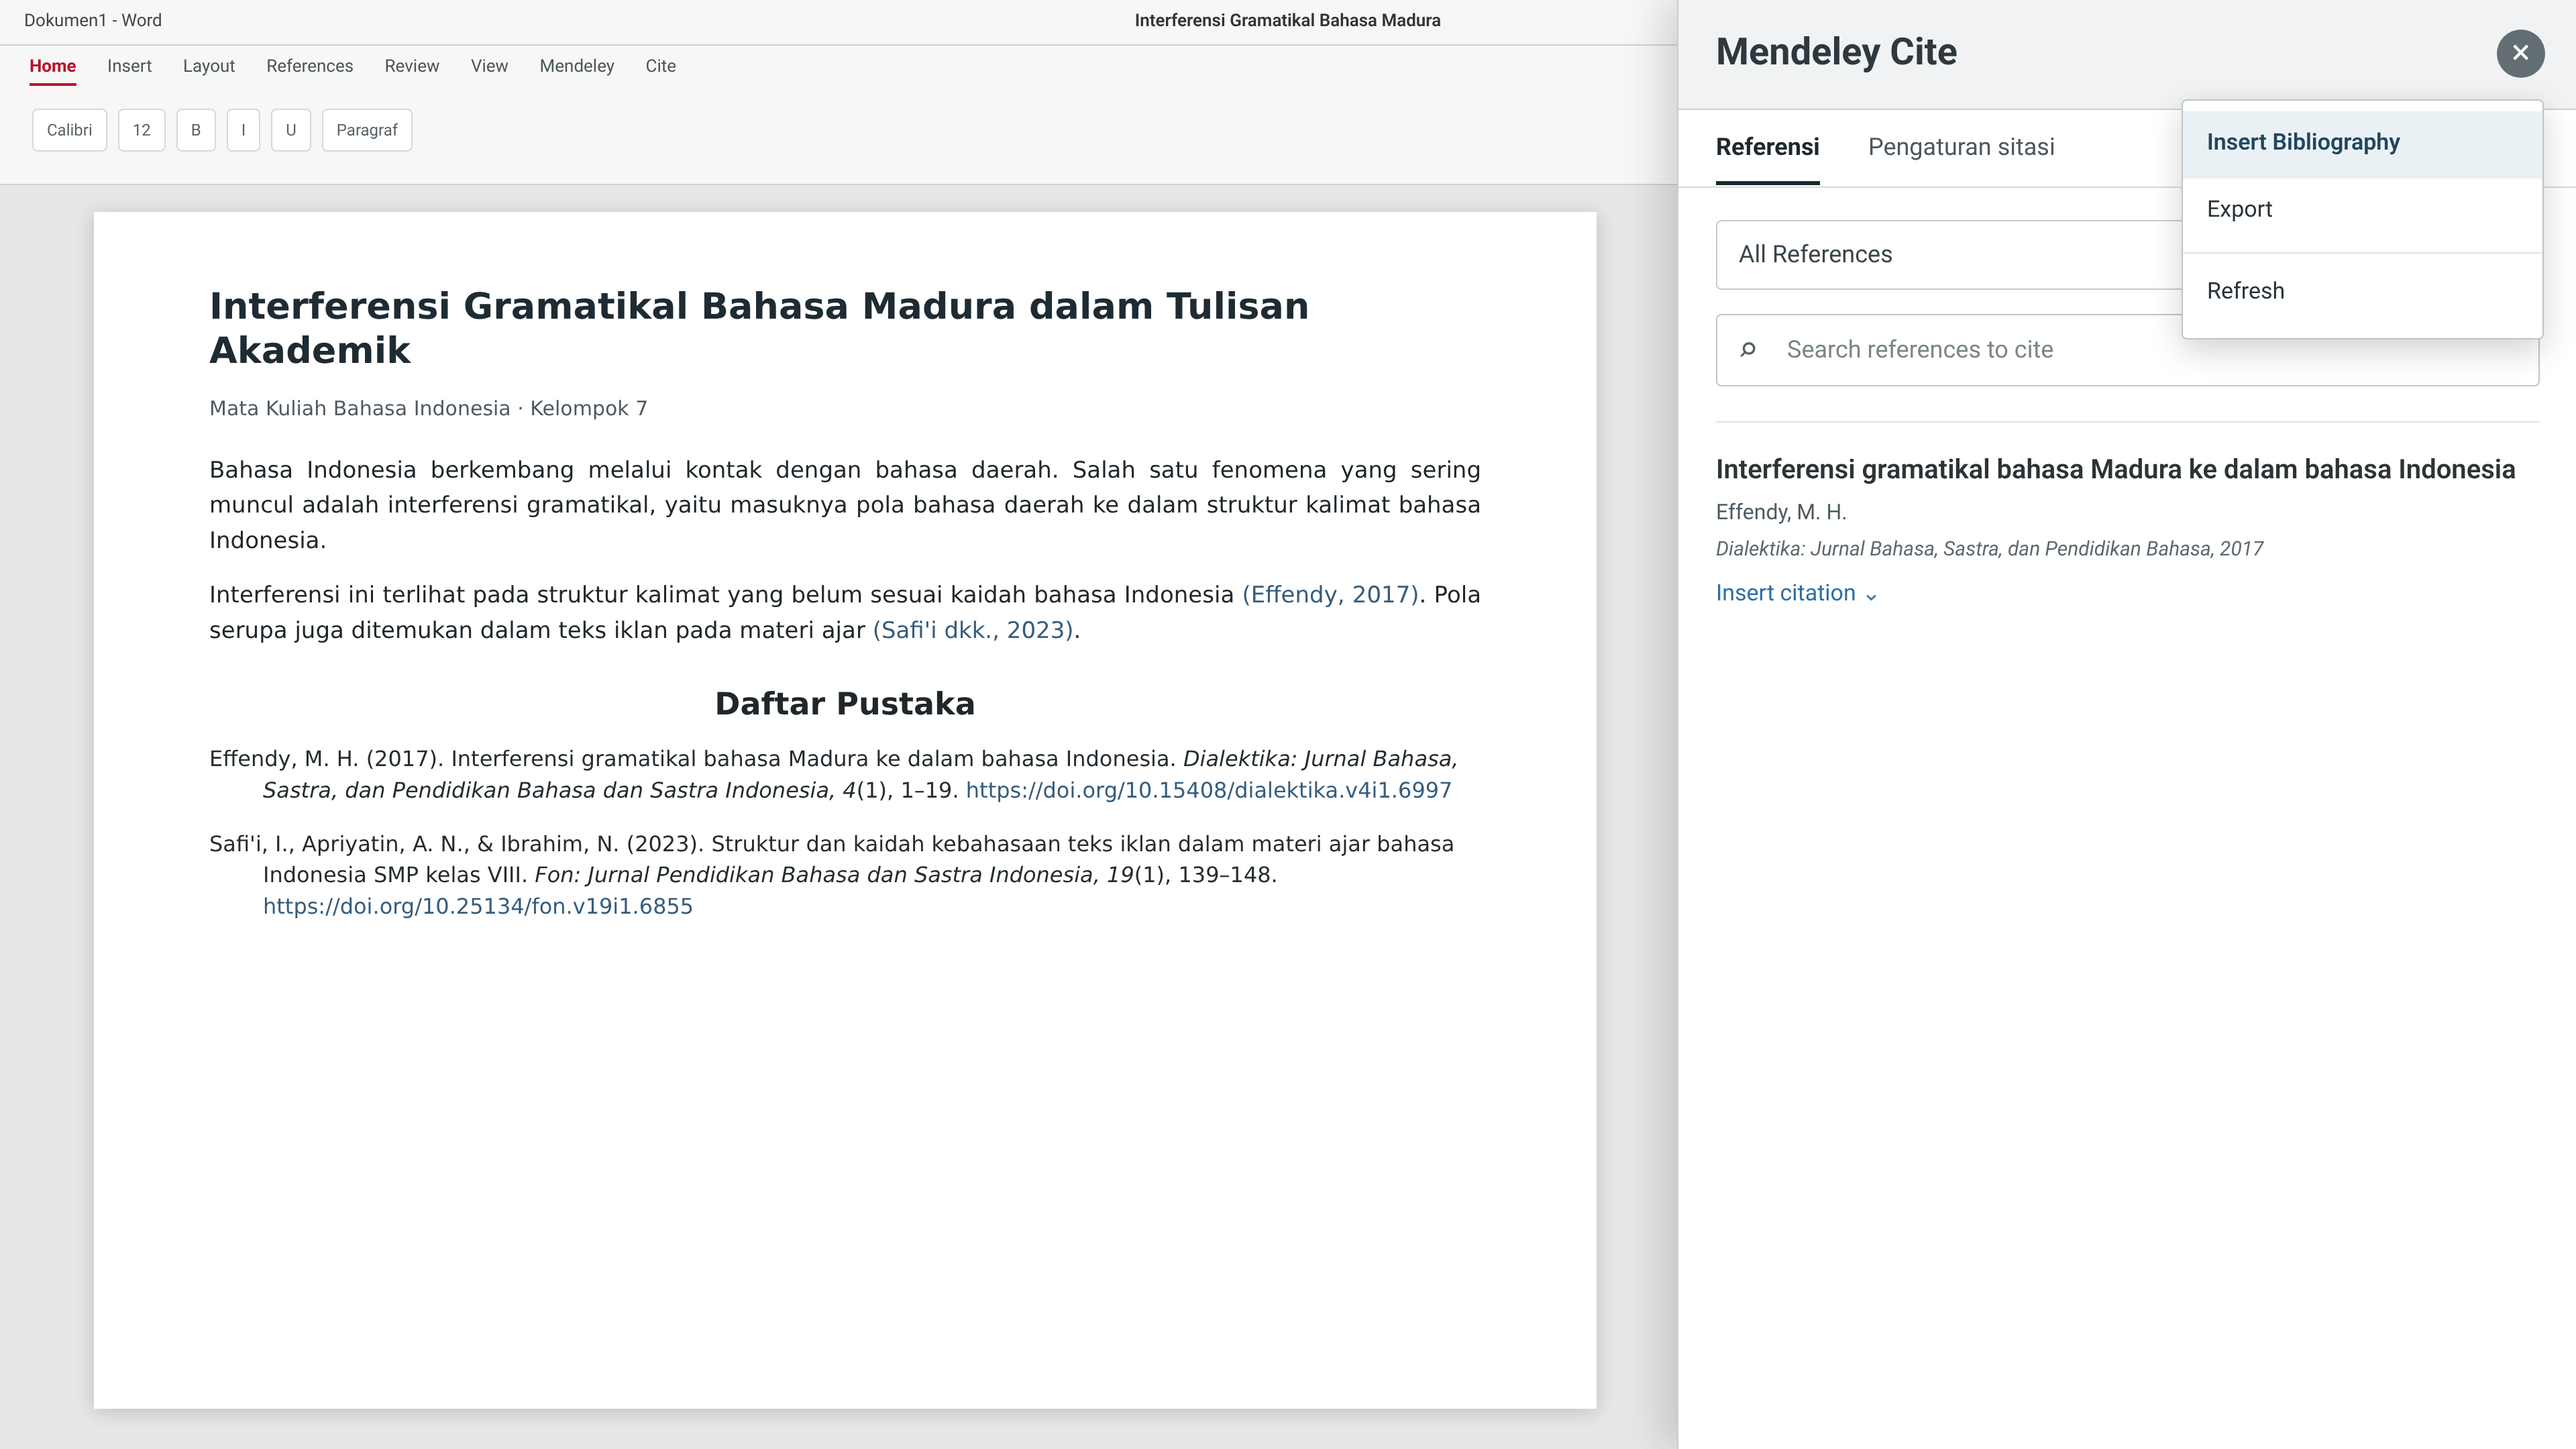
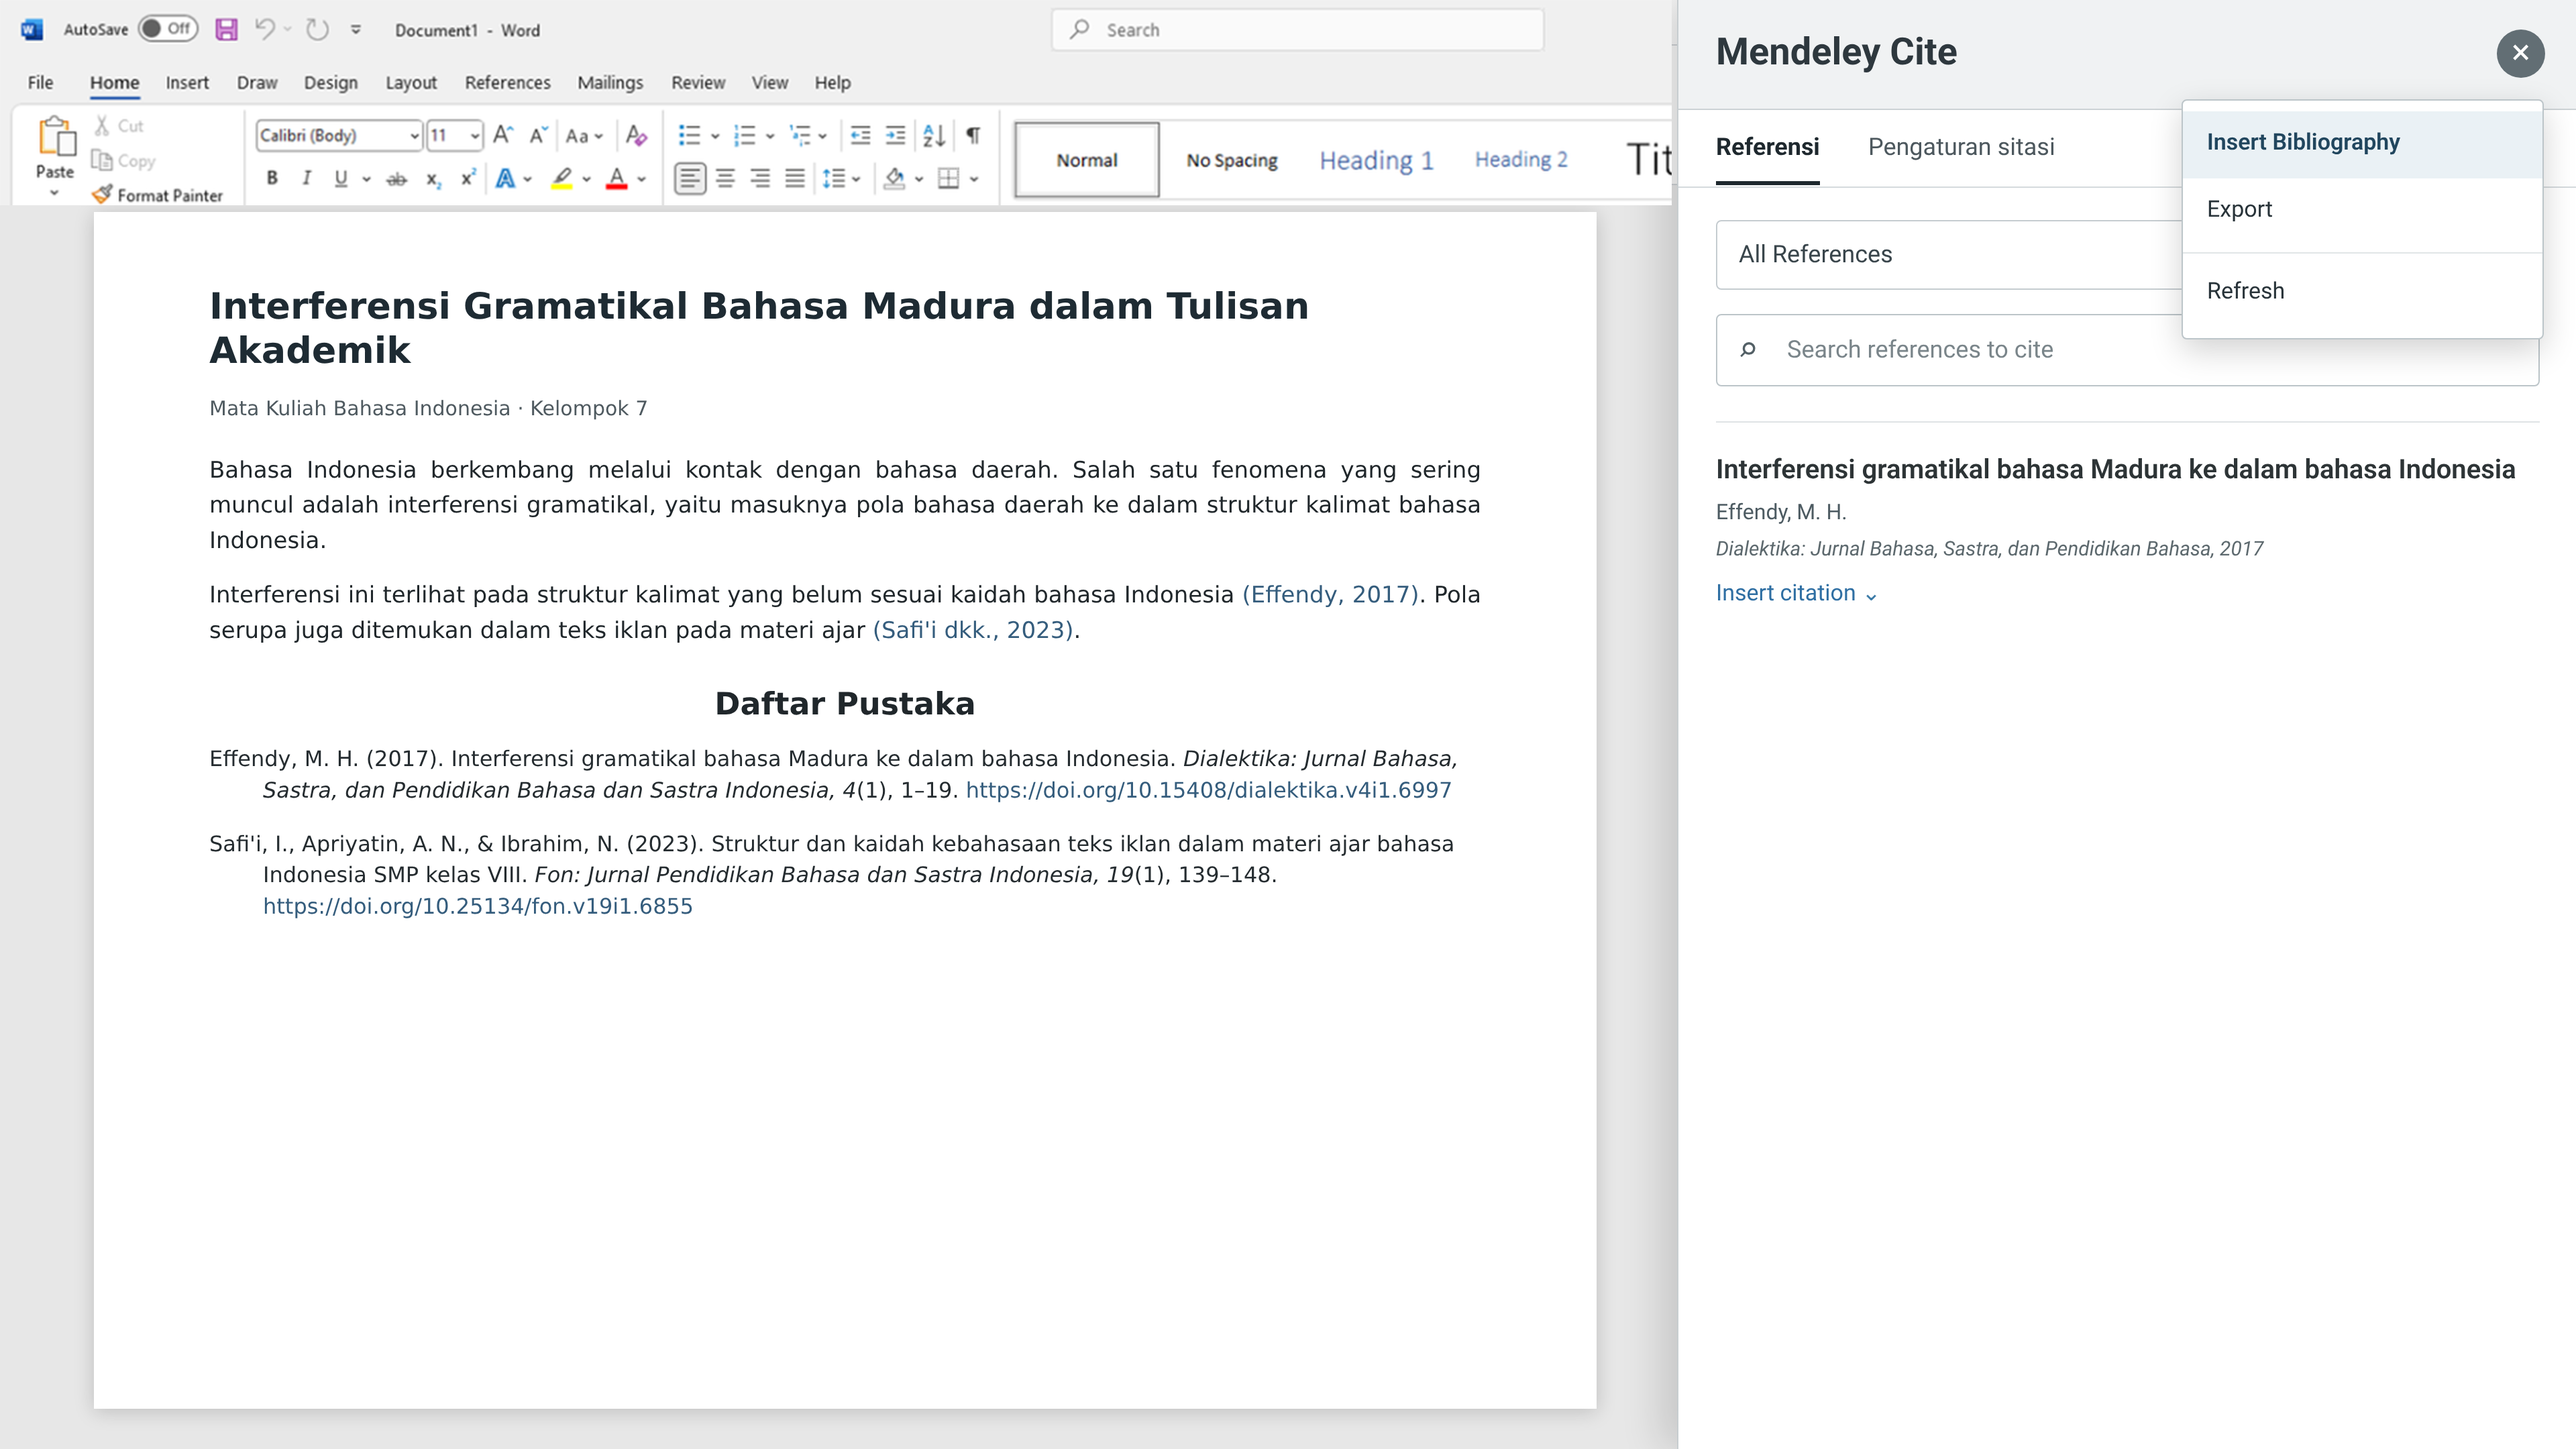
Rapikan angka, heading, dan ribbon Word M3

Changed region(s): [[0.0, 0.0, 0.6562, 0.1551], [0.4375, 0.0, 0.5625, 0.031]]

diff --git a/scenes/video.py b/scenes/video.py
@@ -219,19 +219,11 @@ def chip(text, color=PRIMARY):
     return VGroup(box, label)
 
 
-def step_header(step, title):
-    bar = RoundedRectangle(
-        corner_radius=0.04, width=0.08, height=0.28,
-        fill_color=PRIMARY, fill_opacity=1, stroke_width=0,
-    )
-    s = txt(step.upper(), 14, PRIMARY, BOLD).next_to(bar, RIGHT, buff=0.12)
-    overline = VGroup(bar, s).arrange(RIGHT, buff=0.12)
+def page_header(title):
     t = txt(title, 44, INK, BOLD)
-    t.next_to(overline, DOWN, aligned_edge=LEFT, buff=0.12)
-    group = VGroup(overline, t)
-    group.to_corner(UL, buff=0.7)
-    group.shift(RIGHT * (CONTENT_LEFT - group.get_left()[0]))
-    return group
+    t.to_corner(UL, buff=0.7)
+    t.shift(RIGHT * (CONTENT_LEFT - t.get_left()[0]))
+    return t
 
 
 RAIL_SECTIONS = [
@@ -563,9 +555,6 @@ class Scene01(VideoScene):
     scene_id = "Scene01"
 
     def build(self):
-        kicker = pill("Bahasa Indonesia", PC, 16, ON_PC)
-        kicker.to_corner(UL, buff=0.7)
-
         title = Text(
             "Cara Menggunakan Mendeley\nuntuk Karya Ilmiah",
             font="Roboto",
@@ -574,7 +563,7 @@ class Scene01(VideoScene):
             font_size=46,
             line_spacing=0.92,
         )
-        title.next_to(kicker, DOWN, aligned_edge=LEFT, buff=0.2)
+        title.to_corner(UL, buff=0.7)
 
         rule = RoundedRectangle(
             corner_radius=0.04, width=3.0, height=0.07,
@@ -601,7 +590,6 @@ class Scene01(VideoScene):
         footer.to_corner(DR, buff=0.55)
 
         self.play(
-            FadeIn(kicker),
             FadeIn(title, shift=DOWN * 0.1),
             GrowFromCenter(rule),
             FadeIn(cover_icon, shift=UP * 0.1),
@@ -628,7 +616,7 @@ class Scene02(VideoScene):
 
     def build(self):
         self.add(left_rail(0))
-        self.add(step_header("Gambaran", "Alur video"))
+        self.add(page_header("Alur video"))
         self.add(slide_num(2))
 
         banner_box = RoundedRectangle(
@@ -654,9 +642,8 @@ class Scene02(VideoScene):
             t = txt(title, 17, text_color, BOLD)
             t.next_to(icon, RIGHT, buff=0.12).align_to(icon, UP)
             d = txt(detail, 11, text_color).next_to(t, DOWN, aligned_edge=LEFT, buff=0.08)
-            big = image(f"assets/m3/num-{i + 1:02d}.png", 1.15)
-            big.set_opacity(0.45)
-            big.move_to(box.get_corner(DR) + LEFT * 0.95 + UP * 0.45)
+            big = txt(f"0{i + 1}", 54, text_color, BOLD).set_opacity(0.16)
+            big.move_to(box.get_corner(DR) + LEFT * 0.5 + UP * 0.42, aligned_edge=DR)
             cards.append(Group(box, big, icon, t, d))
 
         cards[0].move_to([-3.65, -0.9, 0])
@@ -699,7 +686,7 @@ class Scene03(VideoScene):
 
     def build(self):
         self.add(left_rail(2))
-        head = step_header("Praktik", "Persiapan")
+        head = page_header("Persiapan")
         sub = txt("Empat hal yang perlu disiapkan.", 18, MUTED)
         sub.next_to(head, DOWN, aligned_edge=LEFT, buff=0.15)
         self.add(head, sub, slide_num(3))
@@ -1028,7 +1015,7 @@ class Scene09(VideoScene):
 
     def build(self):
         rail = left_rail(3)
-        head = step_header("Evaluasi", "Tips")
+        head = page_header("Tips")
         sub = txt("Tiga kebiasaan yang membantu.", 18, MUTED)
         sub.next_to(head, DOWN, aligned_edge=LEFT, buff=0.15)
         page = slide_num(9)
@@ -1047,9 +1034,8 @@ class Scene09(VideoScene):
             t = txt(title, 20, text_color, BOLD)
             t.next_to(icon, RIGHT, buff=0.24).align_to(icon, UP)
             d = txt(detail, 14, text_color).next_to(t, DOWN, aligned_edge=LEFT, buff=0.07)
-            big = image(f"assets/m3/num-{i + 1:02d}.png", 1.15)
-            big.set_opacity(0.4)
-            big.move_to(box.get_right() + LEFT * 0.95)
+            big = txt(f"0{i + 1}", 46, text_color, BOLD).set_opacity(0.18)
+            big.move_to(box.get_corner(DR) + LEFT * 0.55 + UP * 0.4, aligned_edge=DR)
             group = Group(box, big, icon, t, d)
             group.move_to([CONTENT_CENTER, 1.0 - i * 1.7, 0])
             groups.append(group)
@@ -1069,7 +1055,7 @@ class Scene09(VideoScene):
         close_sub.next_to(close_line, DOWN, aligned_edge=LEFT, buff=0.16)
         close_icon = shape_icon("quote_clover", 2.45).move_to([4.75, 1.75, 0])
         close_credit = VGroup(
-            txt("Tampilan Mendeley dan Word: rekonstruksi demo.", 12.5, MUTED),
+            txt("Tampilan Mendeley: rekonstruksi demo. Ribbon Word: Microsoft.", 12.5, MUTED),
             txt("Artikel contoh: Effendy (2017); Safi'i dkk. (2023).", 12.5, MUTED),
         ).arrange(DOWN, aligned_edge=LEFT, buff=0.06)
         close_credit.move_to([-6.0, -2.05, 0], aligned_edge=LEFT)

diff --git a/CREDITS.md b/CREDITS.md
@@ -2,7 +2,8 @@
 
 ## Tangkapan layar
 
-- Antarmuka Mendeley dan Microsoft Word di video ini adalah rekonstruksi demo beresolusi tinggi yang dibuat khusus untuk tutorial, bukan tangkapan layar resmi.
+- Antarmuka Mendeley di video ini adalah rekonstruksi demo beresolusi tinggi yang dibuat khusus untuk tutorial, bukan tangkapan layar resmi.
+- Bagian ribbon Microsoft Word menggunakan tangkapan layar Microsoft Office 2021 (new UI) dari Wikimedia Commons: <https://en.wikipedia.org/wiki/File:Microsoft_Office_2021_(new_UI).png>. Dokumen dan panel Mendeley Cite di sekitarnya direkonstruksi untuk demo.
 - Label, alur, dan tata letak mengacu pada panduan resmi Mendeley Reference Manager: <https://www.mendeley.com/guides/mendeley-reference-manager/>
 - Referensi tampilan: Mendeley Reference Manager, Mendeley Cite, dan Mendeley Web Importer.
 - Hak atas merek dan antarmuka Mendeley: Mendeley/Elsevier. Rekonstruksi digunakan untuk keperluan tutorial pendidikan.
